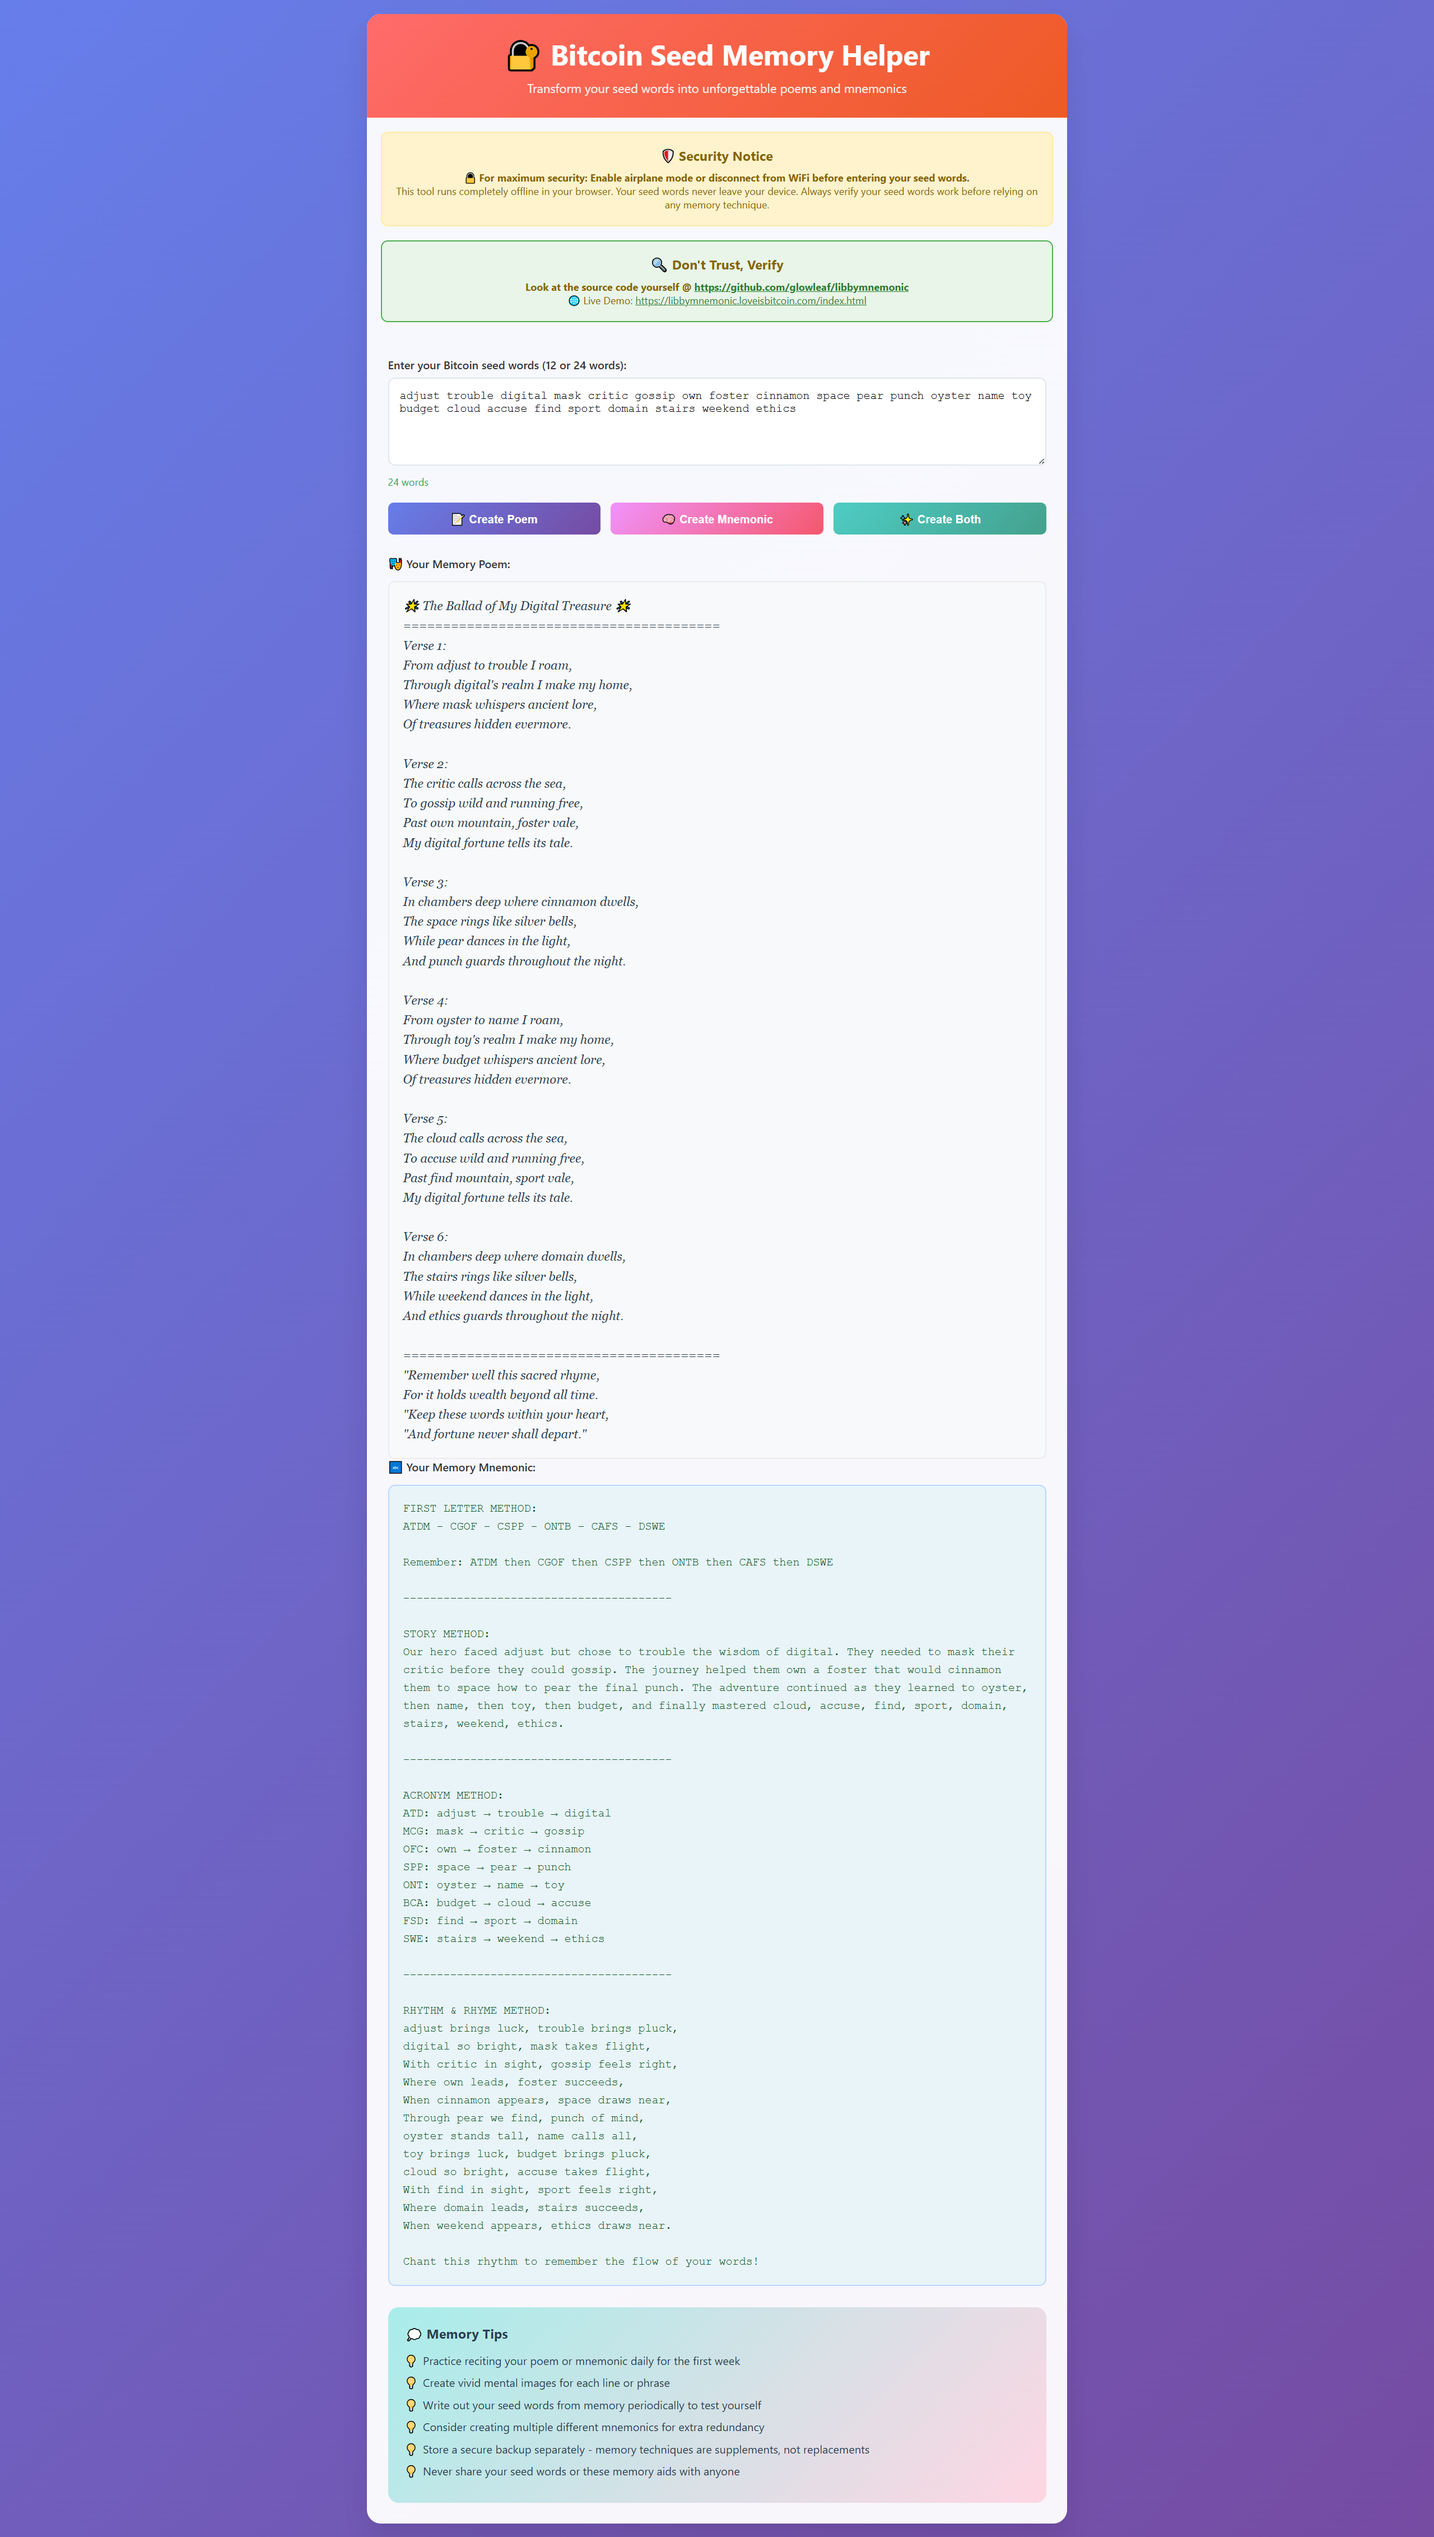
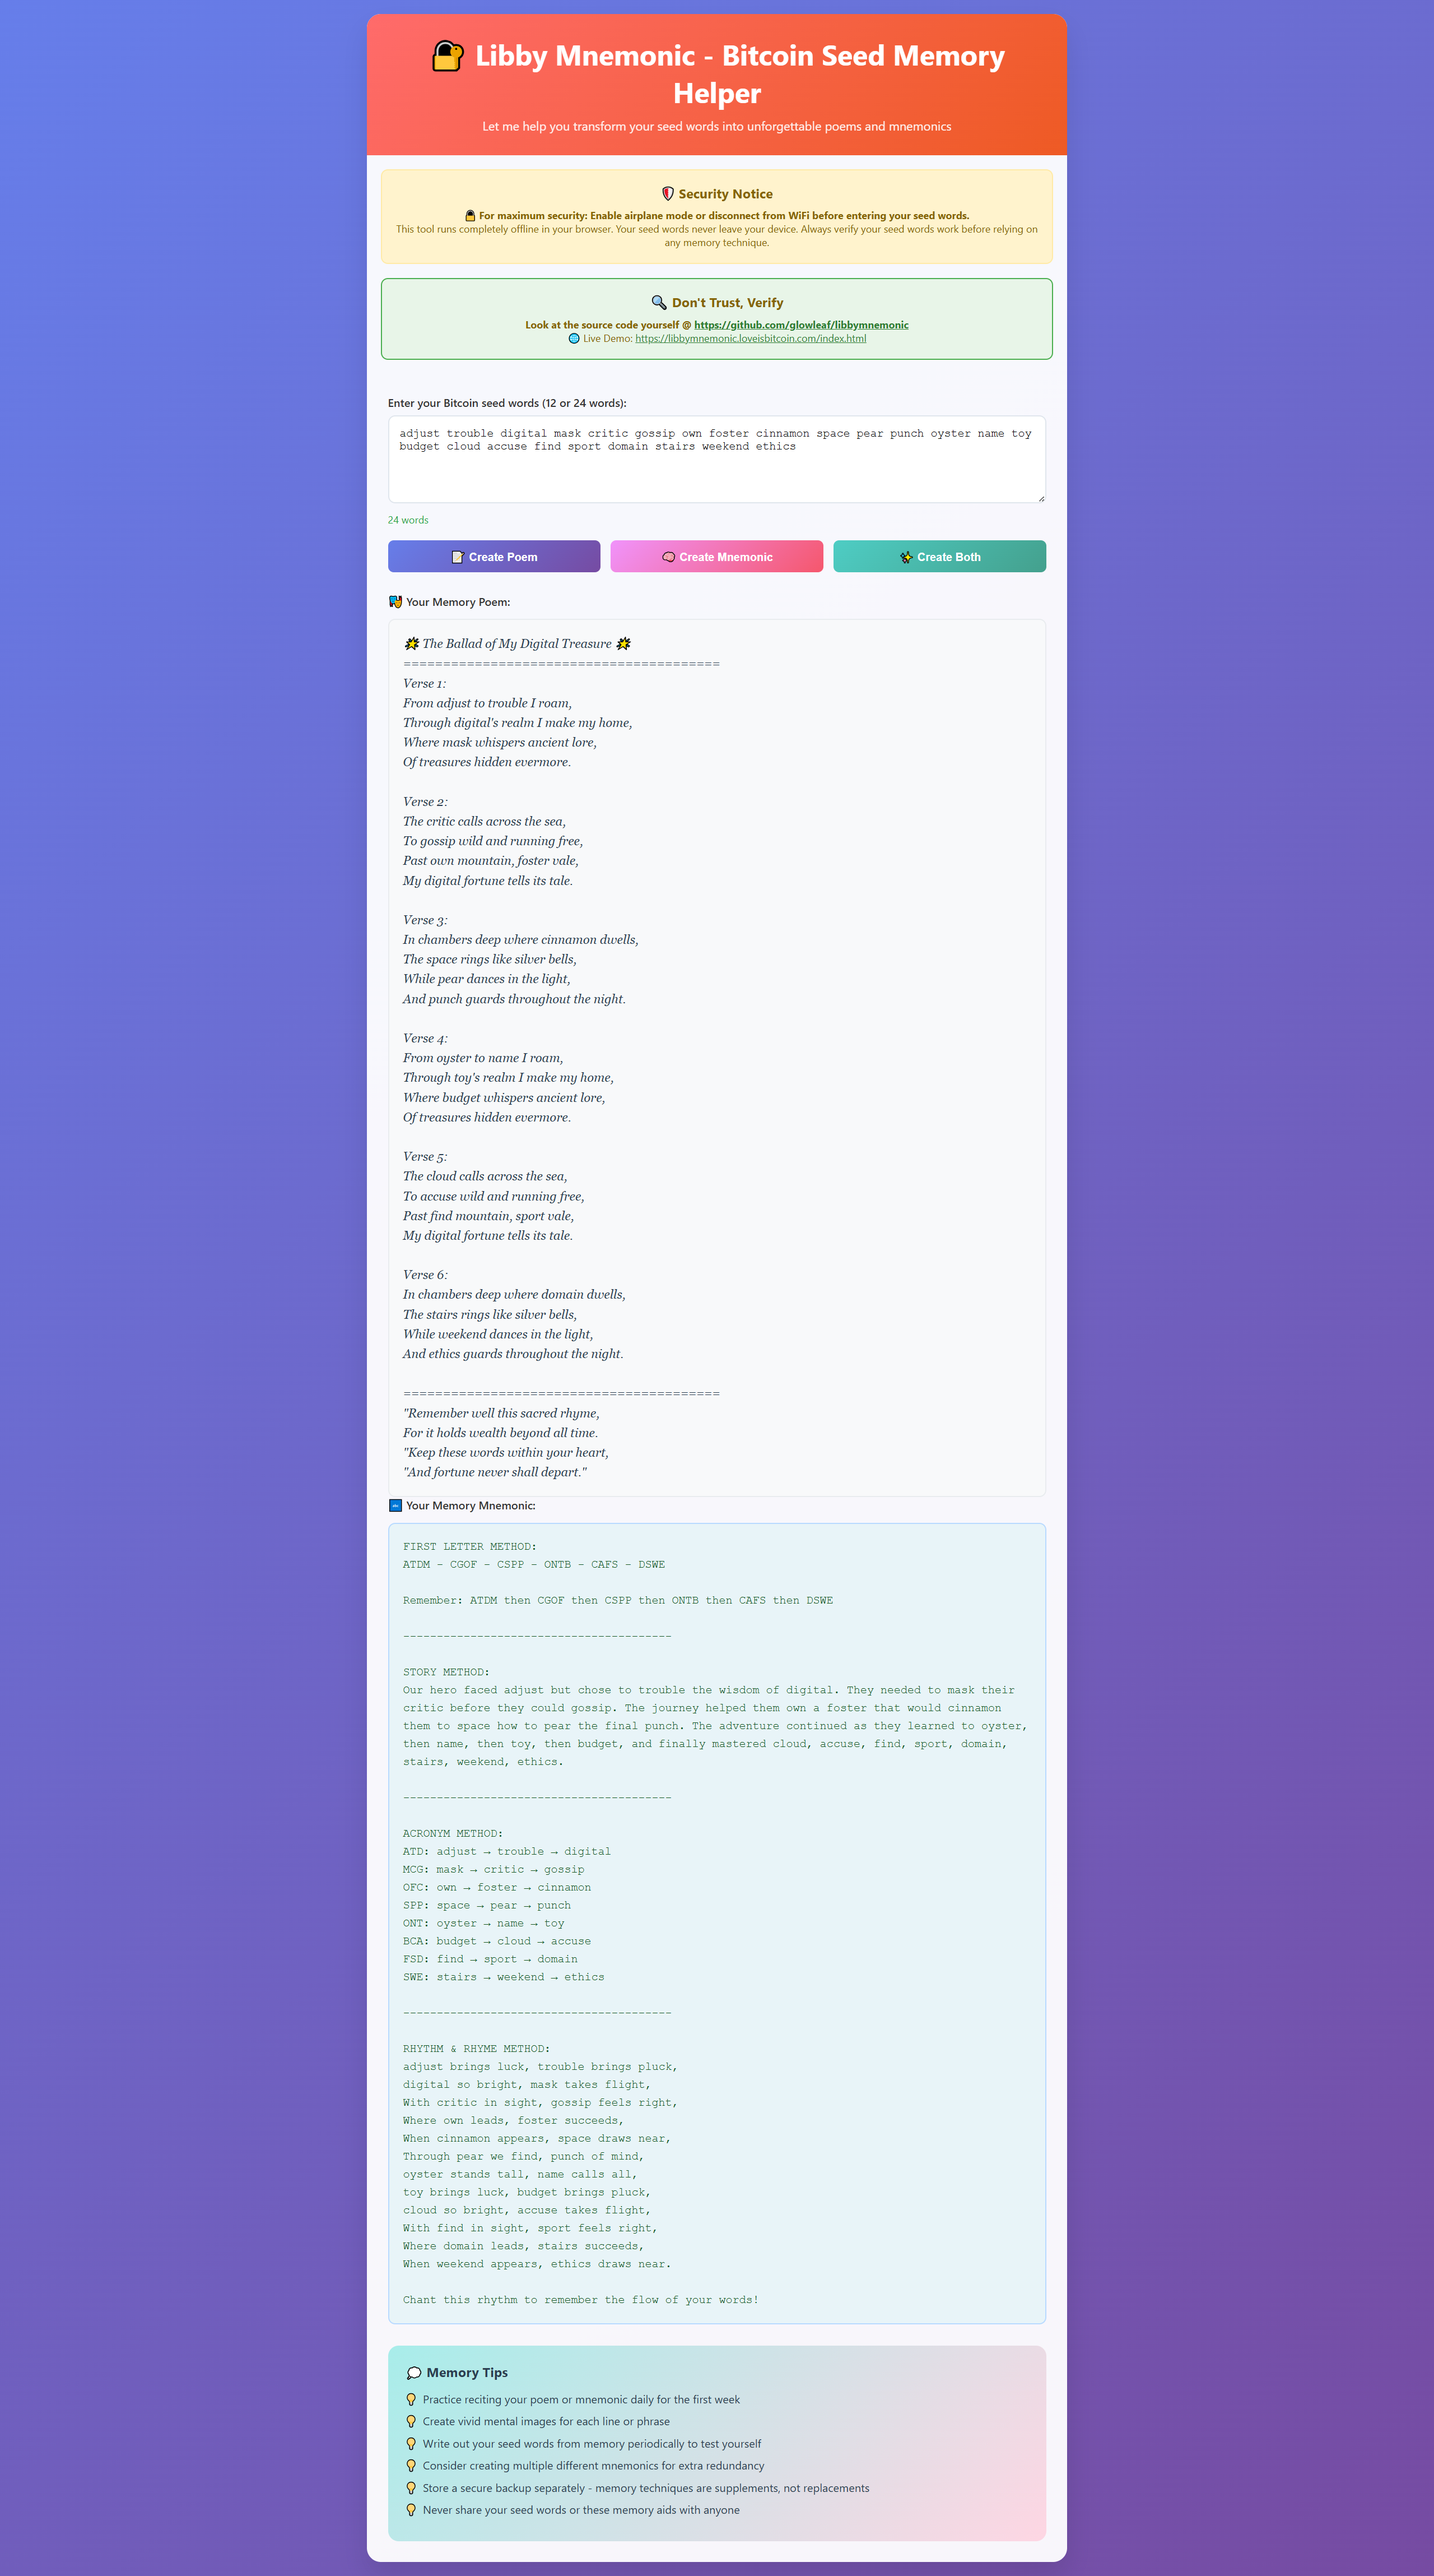
Update all files with latest changes

Changed region(s): [[0.25, 0.0, 0.75, 0.9653]]

diff --git a/index.html b/index.html
@@ -223,8 +223,8 @@
 <body>
     <div class="container">
         <div class="header">
-            <h1>🔐 Bitcoin Seed Memory Helper</h1>
-            <p>Transform your seed words into unforgettable poems and mnemonics</p>
+            <h1>🔐 Libby Mnemonic - Bitcoin Seed Memory Helper</h1>
+            <p>Let me help you transform your seed words into unforgettable poems and mnemonics</p>
         </div>
         
         <div class="security-notice">
